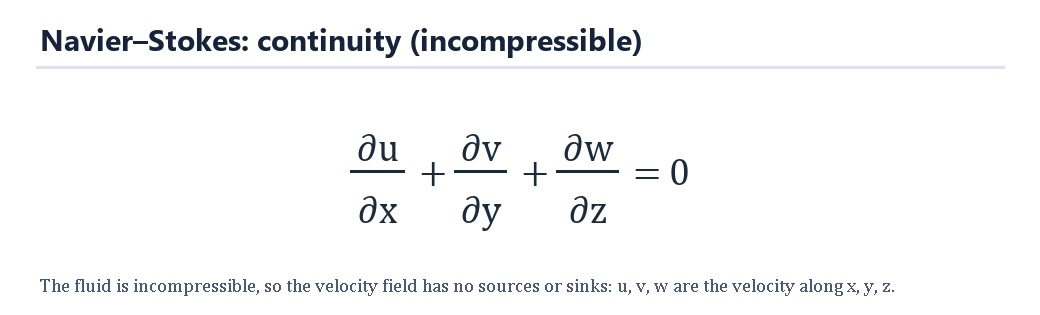
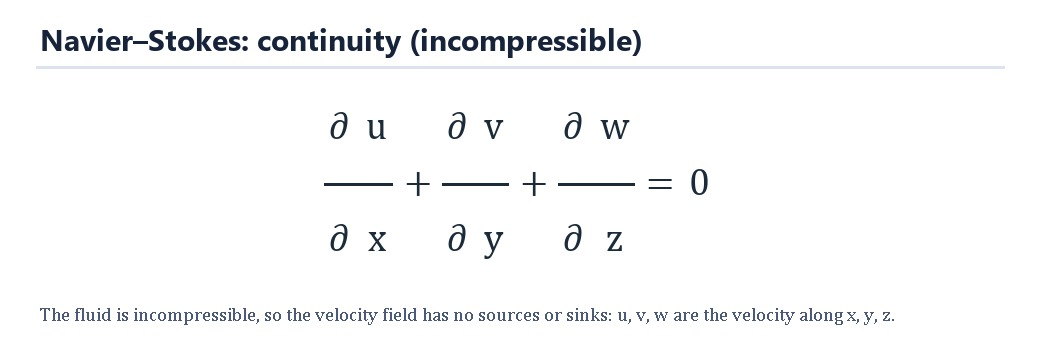
Navier-Stokes pictures drawn from the placed cards of their rows: one glyph per card in its own column and grid row

diff --git a/operator_keys/make_navier_stokes_pictures.py b/operator_keys/make_navier_stokes_pictures.py
@@ -1,128 +1,97 @@
-"""Draws the pictures of the five Navier-Stokes operators (incompressible Newtonian fluid).
+"""Draws the pictures of the five Navier-Stokes operators (incompressible Newtonian fluid), FROM THEIR ROWS.
 
     python operator_keys/make_navier_stokes_pictures.py
 
 One picture for each operator, written to operators_one_operator_per_file/physics/physics/<operator>/<operator>.jpg:
-    navier_stokes_equation (the short vector form, the same cards as its row), navier_stokes_x_momentum, navier_stokes_y_momentum, navier_stokes_z_momentum,
-    navier_stokes_continuity.
-The rows of these operators are in operator_row_math/physics/physics/<operator>/<operator>.py (written by make_operator_row_files.py from operator_row_specs.txt)
-and follow these pictures: same columns, same grid rows.
+    navier_stokes_equation, navier_stokes_x_momentum, navier_stokes_y_momentum, navier_stokes_z_momentum, navier_stokes_continuity.
 
-Written the way the rows write math: every derivative is a fraction with its numerator on the line above the bar and its denominator on the line below,
-and an exponent sits one line up, over the symbol it powers.
+The picture is drawn from the cards of the operator's row (operator_row_math/physics/physics/<operator>/<operator>.py: LEFT, LEVELS, FRAC, STACK_EXPONENTS), placed by the
+same planner the calculator uses (row_builder._plan).  Every card is ONE glyph in its own column and grid row; nothing is drawn as a longer string: a derivative is a
+numerator card or two above its bar and a denominator card or two below it, an exponent is a small card one grid row up in the column of the symbol it powers.
 """
 import os
+import sys
 
 from PIL import Image, ImageDraw, ImageFont
 
 HERE = os.path.dirname(os.path.abspath(__file__))
 ROOT = os.path.dirname(HERE)
+sys.path.insert(0, ROOT)
+import operator_row_math as R  # noqa: E402
+from operator_row_math.row_builder import _plan  # noqa: E402
+
 OPS = os.path.join(ROOT, "operators_one_operator_per_file", "physics", "physics")
 FONTS = os.path.join(os.environ.get("WINDIR", r"C:\Windows"), "Fonts")
+PREFIX = "physics/physics/"
 
 
 def font(name, size, index=0):
     return ImageFont.truetype(os.path.join(FONTS, name), size, index=index)
 
 
-MATH, SMALL = font("cambria.ttc", 38, 1), font("cambria.ttc", 25, 1)      # Cambria Math has the \u2202 \u2207 symbols
-LABEL, TITLE, NOTE = font("cambria.ttc", 24, 1), font("segoeuib.ttf", 30), font("cambria.ttc", 19, 1)
+BIG, SMALL = font("cambria.ttc", 38, 1), font("cambria.ttc", 25, 1)      # Cambria Math has the ∂ ∇ symbols
+NOTE = font("cambria.ttc", 19, 1)
 INK, RULE, GREY = "#1c2b3a", "#dde3ee", "#4a5a78"
-img = d = None
+PAD, ROW_BIG, ROW_SMALL = 16, 56, 34          # space added to a column, height of a grid row with ordinary cards, height of one that holds only exponents / subscripts
+_probe = ImageDraw.Draw(Image.new("RGB", (10, 10)))
 
 
-def new(w, h):
-    global img, d
-    img = Image.new("RGB", (int(w), int(h)), "white")
-    d = ImageDraw.Draw(img)
+def cards_of(key):
+    """The placed cards of an operator's row: ([(text, small)], plan, rows)."""
+    m = R.get(PREFIX + key)
+    levels = list(getattr(m, "LEVELS", None) or [0] * len(m.LEFT))
+    fracs = list(getattr(m, "FRAC", None) or [[] for _ in m.LEFT])
+    placed, bars, columns = _plan(len(m.LEFT), levels, fracs, bool(getattr(m, "STACK_EXPONENTS", False)))
+    cards = {i: (m.LEFT[i][1], levels[i] != 0, r, c) for i, (r, c) in placed.items()}
+    return cards, bars, columns
 
 
-def width(s, f=MATH):
-    return d.textlength(s, font=f)
+def layout(key):
+    cards, bars, columns = cards_of(key)
+    colw = [34] * columns
+    for text, small, r, c in cards.values():
+        colw[c] = max(colw[c], _probe.textlength(text, font=SMALL if small else BIG) + PAD)
+    for r, c, w in bars:
+        for cc in range(c, c + w):
+            colw[cc] = max(colw[cc], 34)
+    grid_rows = sorted({r for _t, _s, r, _c in cards.values()} | {b[0] for b in bars})
+    first = grid_rows[0]
+    heights = {}
+    for g in range(first, grid_rows[-1] + 1):
+        big = any(r == g and not small for _t, small, r, _c in cards.values()) or any(b[0] == g for b in bars)
+        heights[g] = ROW_BIG if big else ROW_SMALL
+    return cards, bars, colw, heights, first
 
 
-def put(x, base, s, f=MATH, fill=INK):
-    d.text((x, base), s, font=f, fill=fill, anchor="ls")
-    return x + width(s, f)
-
-
-def frac(x, base, top, bottom):
-    """a derivative: numerator on the line above the bar, denominator on the line below"""
-    w = max(width(top), width(bottom)) + 12
-    d.line((x, base - 14, x + w, base - 14), fill=INK, width=3)
-    d.text((x + w / 2, base - 24), top, font=MATH, fill=INK, anchor="ms")
-    d.text((x + w / 2, base + 38), bottom, font=MATH, fill=INK, anchor="ms")
-    return x + w + 6
-
-
-def sub(x, base, s, low):
-    return put(put(x, base, s), base + 8, low, SMALL)
-
-
-def op(x, base, s):
-    return put(x + 8, base, s) + 8
-
-
-def vector(x, base):
-    x = put(x, base, "\u03c1 (") + 4
-    x = frac(x, base, "\u2202u", "\u2202t")
-    x = op(x, base, "+")
-    x = put(x, base, "(u \u00b7 \u2207) u") + 4
-    x = put(x, base, ")") + 6
-    x = op(x, base, "=")
-    x = put(x, base, "\u2212\u2207p") + 6
-    x = op(x, base, "+")
-    x = put(x, base, "\u03bc \u2207")
-    put(x, base - 24, "2", SMALL)
-    x = put(x + 16, base, "u") + 6
-    x = op(x, base, "+")
-    return put(x, base, "f")
-
-
-def component(x, base, q, axis):
-    """rho ( dq/dt + u dq/dx + v dq/dy + w dq/dz ) = - dp/d(axis) + mu ( d2q/dx2 + d2q/dy2 + d2q/dz2 ) + f_axis"""
-    x = put(x, base, "\u03c1 (") + 4
-    x = frac(x, base, "\u2202" + q, "\u2202t")
-    for vel, ax in (("u", "x"), ("v", "y"), ("w", "z")):
-        x = op(x, base, "+")
-        x = put(x, base, vel) + 2
-        x = frac(x, base, "\u2202" + q, "\u2202" + ax)
-    x = put(x, base, ")") + 6
-    x = op(x, base, "=")
-    x = put(x, base, "\u2212") + 4
-    x = frac(x, base, "\u2202p", "\u2202" + axis)
-    x = op(x, base, "+")
-    x = put(x, base, "\u03bc (") + 4
-    for k, ax in enumerate("xyz"):
-        if k:
-            x = op(x, base, "+")
-        x = frac(x, base, "\u2202\u00b2" + q, "\u2202" + ax + "\u00b2")
-    x = put(x, base, ")") + 6
-    x = op(x, base, "+")
-    return sub(x, base, "f", axis)
-
-
-def continuity(x, base):
-    x = frac(x, base, "\u2202u", "\u2202x")
-    x = op(x, base, "+")
-    x = frac(x, base, "\u2202v", "\u2202y")
-    x = op(x, base, "+")
-    x = frac(x, base, "\u2202w", "\u2202z")
-    return put(op(x, base, "="), base, "0")
-
-
-def single(title, draw, description, base=185):
-    """One equation, in the look of the other operator pictures: title, rule, the equation, a description line."""
-    new(10, 10)
-    end = draw(0, base)
-    w = max(1040, int(end) + 88)
+def render(key, title, description):
+    cards, bars, colw, heights, first = layout(key)
+    formula_w, formula_h = sum(colw), sum(heights.values())
     lines = description.split("\n")
-    new(w, base + 130 + 26 * (len(lines) - 1))
+    w = max(1040, int(formula_w) + 88)
+    top = 100                                              # the equation starts under the title and its rule
+    desc_y = top + formula_h + 38
+    img = Image.new("RGB", (w, desc_y + 26 * len(lines) + 24), "white")
+    d = ImageDraw.Draw(img)
     d.text((40, 18), title, font=font("segoeuib.ttf", 30), fill="#16233a")
     d.line((36, 67, w - 36, 67), fill=RULE, width=3)
-    draw((w - end) / 2, base)
+    xs, x = [], (w - formula_w) / 2
+    for cw in colw:
+        xs.append(x)
+        x += cw
+    ys, y = {}, top
+    for g in range(first, first + len(heights)):
+        ys[g] = y + heights[g] / 2
+        y += heights[g]
+    for text, small, r, c in cards.values():
+        cx, cy = xs[c] + colw[c] / 2, ys[r]
+        if small:
+            d.text((cx, cy + 0.30 * 25), text, font=SMALL, fill=INK, anchor="ms")
+        else:
+            d.text((cx, cy + 0.30 * 38), text, font=BIG, fill=INK, anchor="ms")
+    for r, c, bw in bars:
+        d.line((xs[c] + 3, ys[r], xs[c + bw - 1] + colw[c + bw - 1] - 3, ys[r]), fill=INK, width=3)
     for k, line in enumerate(lines):
-        d.text((40, base + 92 + 26 * k), line, font=NOTE, fill=GREY)
+        d.text((40, desc_y + 26 * k), line, font=NOTE, fill=GREY)
     return img
 
 
@@ -132,15 +101,18 @@ def save(image, path):
     print("wrote", path)
 
 
+PICTURES = [
+    ("navier_stokes_equation", "Navier\u2013Stokes equation",
+     "Density times the fluid's acceleration equals the push of pressure, the friction of the fluid on itself and any outside force.\n"
+     "u velocity, \u03c1 density, \u03bc viscosity, p pressure, f force per volume (such as gravity)."),
+]
+for _q, _axis in (("u", "x"), ("v", "y"), ("w", "z")):
+    PICTURES.append(("navier_stokes_%s_momentum" % _axis, "Navier\u2013Stokes: %s momentum" % _axis,
+                     "Momentum balance along %s for an incompressible fluid. %s is the velocity along %s; \u03c1 density, \u03bc viscosity, p pressure, f_%s force per volume."
+                     % (_axis, _q, _axis, _axis)))
+PICTURES.append(("navier_stokes_continuity", "Navier\u2013Stokes: continuity (incompressible)",
+                 "The fluid is incompressible, so the velocity field has no sources or sinks: u, v, w are the velocity along x, y, z."))
+
 if __name__ == "__main__":
-    save(single("Navier–Stokes equation", vector,
-                "Density times the fluid's acceleration equals the push of pressure, the friction of the fluid on itself and any outside force.\n"
-                "u velocity, ρ density, μ viscosity, p pressure, f force per volume (such as gravity)."),
-         os.path.join(OPS, "navier_stokes_equation", "navier_stokes_equation.jpg"))
-    for q, axis in (("u", "x"), ("v", "y"), ("w", "z")):
-        pic = single("Navier\u2013Stokes: %s momentum" % axis, lambda x, b, q=q, a=axis: component(x, b, q, a),
-                     "Momentum balance along %s for an incompressible fluid. %s is the velocity along %s; \u03c1 density, \u03bc viscosity, p pressure, f_%s force per volume." % (axis, q, axis, axis))
-        save(pic, os.path.join(OPS, "navier_stokes_%s_momentum" % axis, "navier_stokes_%s_momentum.jpg" % axis))
-    save(single("Navier\u2013Stokes: continuity (incompressible)", continuity,
-                "The fluid is incompressible, so the velocity field has no sources or sinks: u, v, w are the velocity along x, y, z."),
-         os.path.join(OPS, "navier_stokes_continuity", "navier_stokes_continuity.jpg"))
+    for slug, title, description in PICTURES:
+        save(render(slug, title, description), os.path.join(OPS, slug, slug + ".jpg"))
